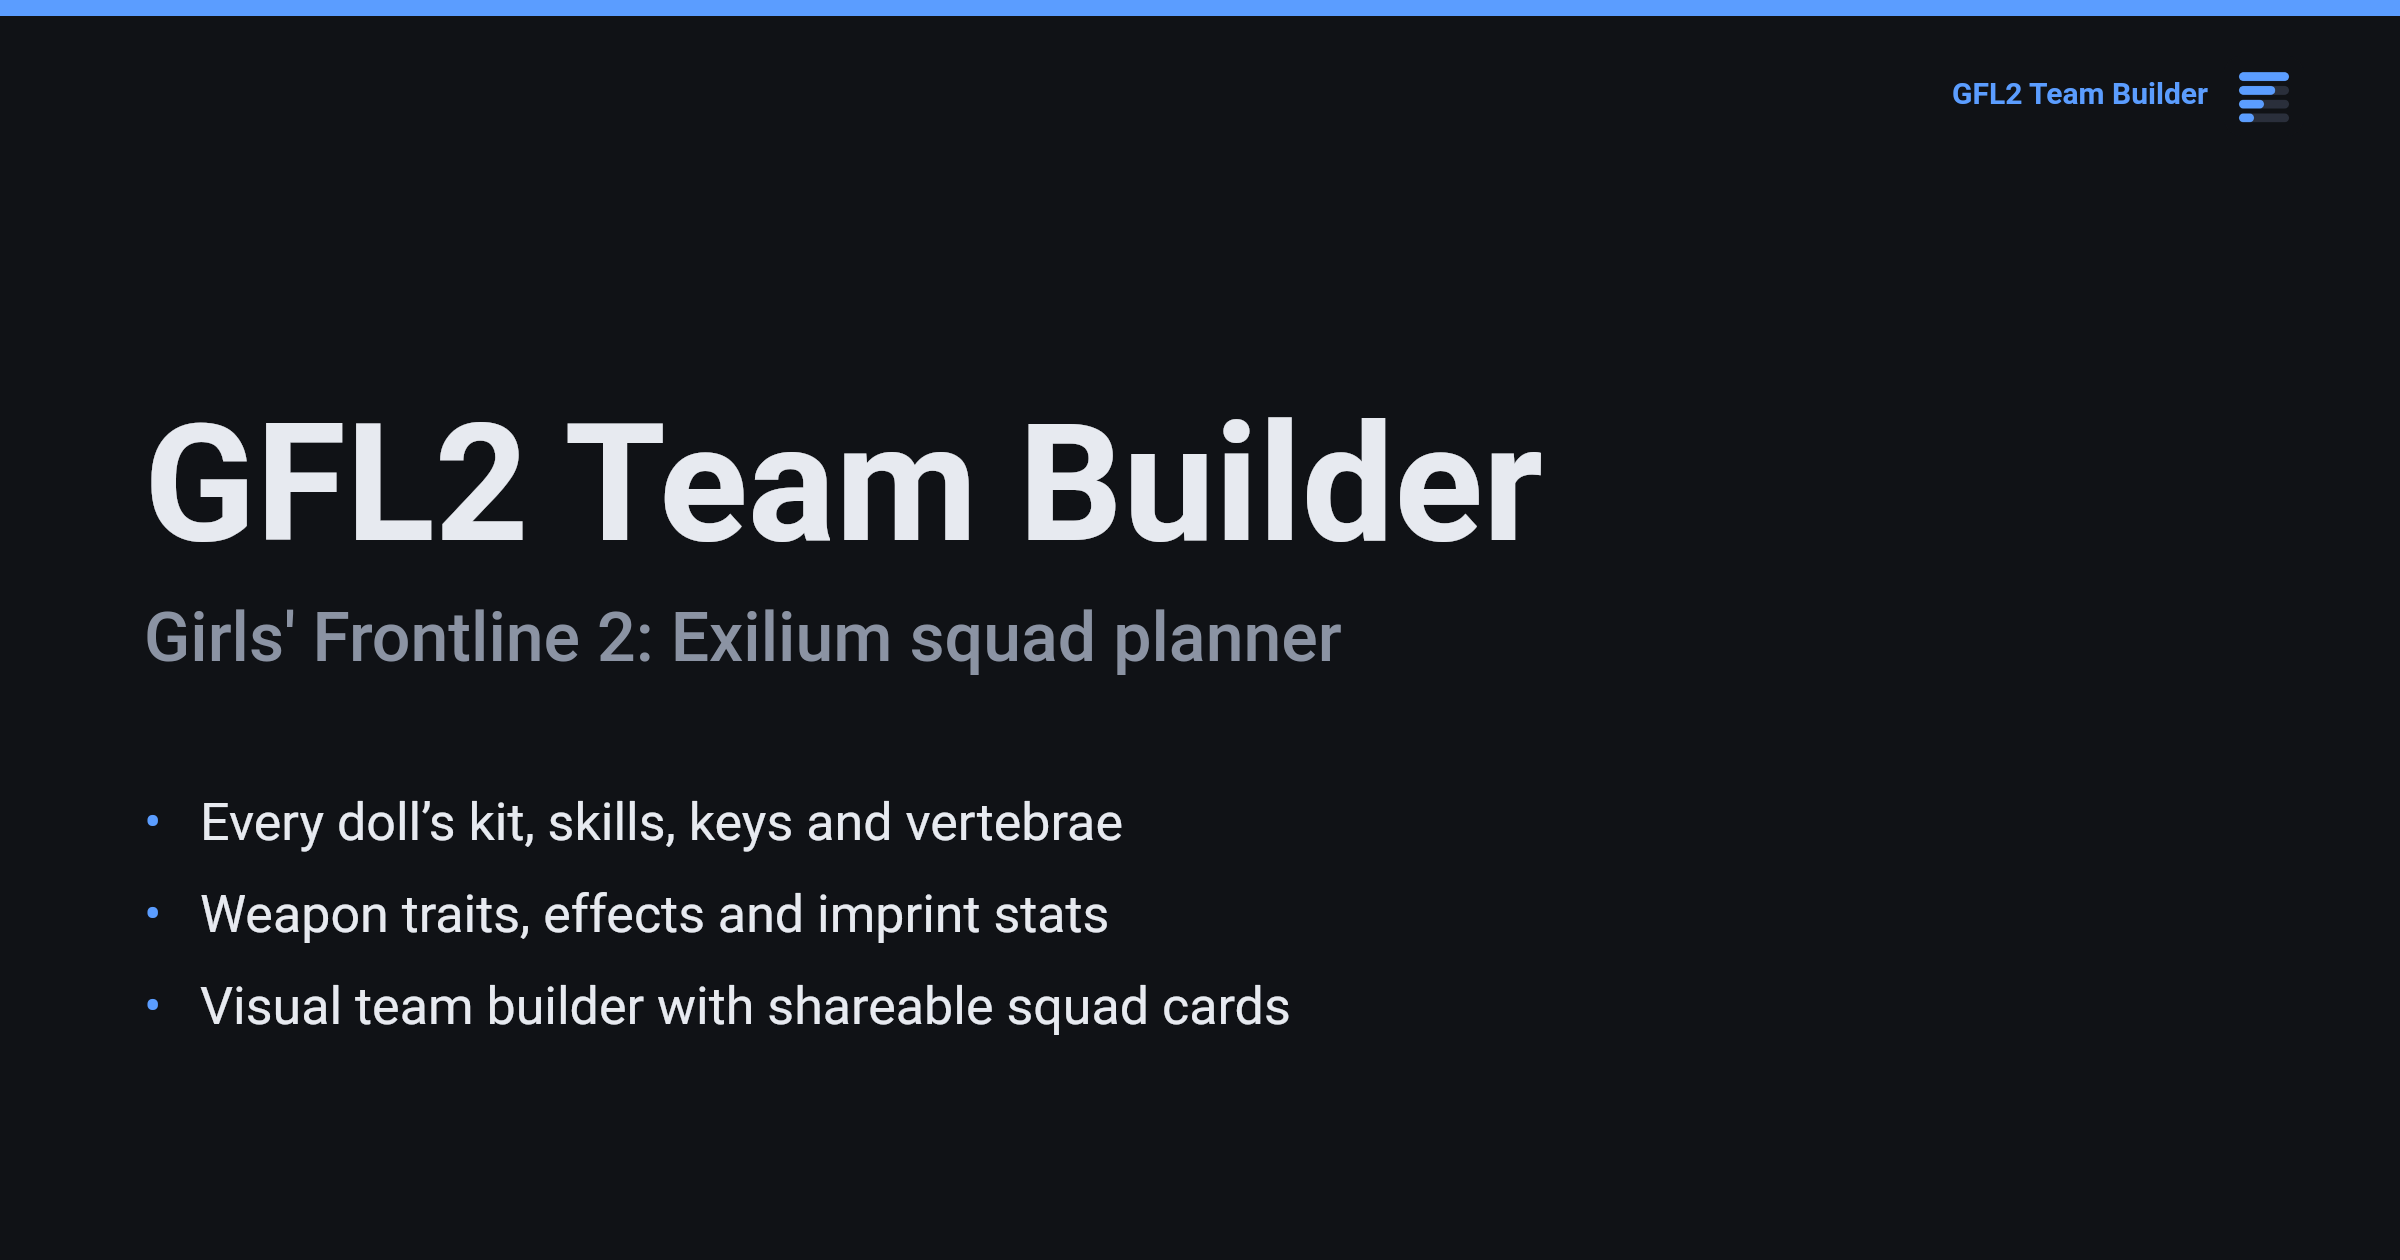
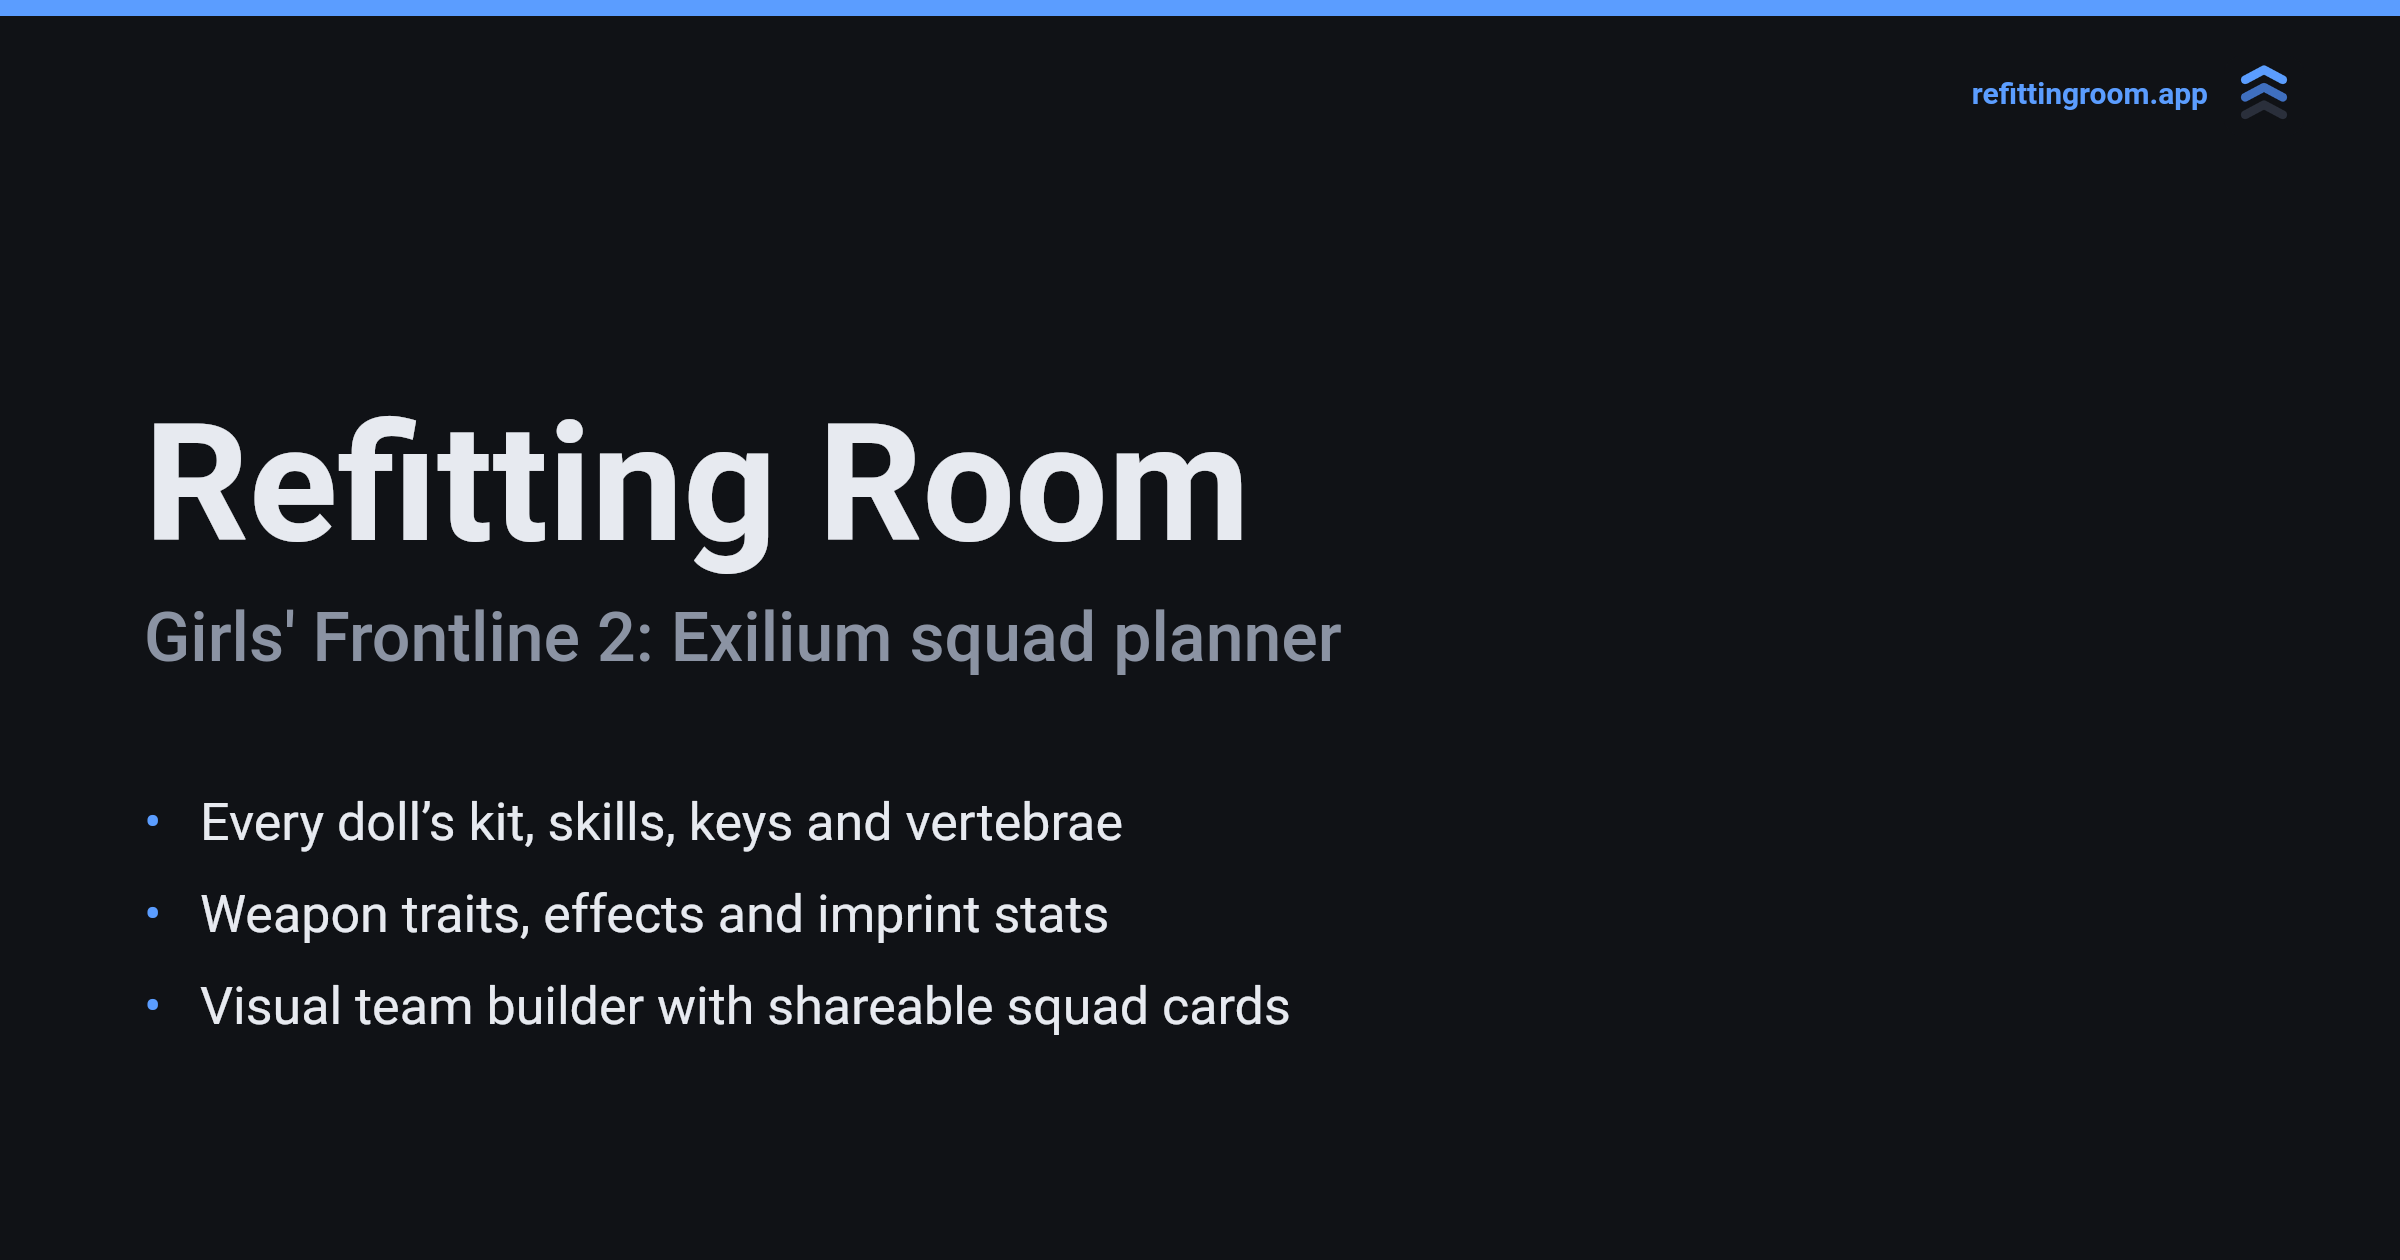
Chevron brand mark for Refitting Room
The site gets its own logo — three stacked chevrons fading dim → bright
(the V0 → V6 investment climb) in the same blue-on-black language as
before — replacing the nikkesim bars everywhere Refitting Room brands
itself: favicon.svg, site-icon.png (new: nav, fallback/touch icons, card
previews), the server card mark (assets/site-icon.png via node/icon.ts),
and a regenerated og.png. RENDERER_VERSION → 5 since every card draws
the mark. The nikkesim bars remain only where they mean nikkesim: its
Dev-page callout and footer tile.

Changed region(s): [[0.0625, 0.3095, 0.6562, 0.4643], [0.8125, 0.0619, 0.9688, 0.0929]]

diff --git a/src/infographics/core/theme.ts b/src/infographics/core/theme.ts
@@ -85,10 +85,10 @@ const MARK_BASELINE = 24; // wordmark baseline, from the icon's top edge
  * parameter on purpose: no renderer can accidentally ship an unmarked (or
  * mis-marked) image — the brand string is owned here and nowhere else.
  *
- * `icon` is the shared nikkesim.app mark (node/icon.ts loads it; the browser
- * previews use the same PNG from web/public/). It is OPTIONAL: a host with no
- * icon loaded thins the mark to its wordmark rather than dropping it, so a
- * missing asset can never produce an unmarked image.
+ * `icon` is Refitting Room's chevron mark (node/icon.ts loads it; the
+ * browser previews use the same PNG from web/public/site-icon.png). It is
+ * OPTIONAL: a host with no icon loaded thins the mark to its wordmark rather
+ * than dropping it, so a missing asset can never produce an unmarked image.
  *
  * Returns the mark's LEFT edge so a caller can clamp a title that would
  * otherwise run underneath it.

diff --git a/web/index.html b/web/index.html
@@ -3,11 +3,11 @@
   <head>
     <meta charset="UTF-8" />
     <meta name="viewport" content="width=device-width, initial-scale=1.0" />
-    <!-- Shared nikkesim.app brand mark: the SVG is the primary favicon, the
+    <!-- Refitting Room's chevron mark: the SVG is the primary favicon, the
          PNG is the fallback + the mark drawn on share cards and in the nav. -->
     <link rel="icon" type="image/svg+xml" href="/favicon.svg" />
-    <link rel="alternate icon" type="image/png" href="/nikkesim-icon.png" />
-    <link rel="apple-touch-icon" href="/nikkesim-icon.png" />
+    <link rel="alternate icon" type="image/png" href="/site-icon.png" />
+    <link rel="apple-touch-icon" href="/site-icon.png" />
     <title>Refitting Room — Girls' Frontline 2: Exilium Squad Planner</title>
     <meta
       name="description"

diff --git a/src/infographics/node/icon.ts b/src/infographics/node/icon.ts
@@ -1,5 +1,5 @@
 /**
- * The shared nikkesim.app site icon drawn beside every card's wordmark
+ * Refitting Room's chevron site icon, drawn beside every card's wordmark
  * (core/theme.ts drawBrandMark). Loaded ONCE, lazily, and cached for the
  * process; the asset ships beside the fonts under assets/ and is copied into
  * dist-server by `npm run build:server`.
@@ -19,7 +19,7 @@ import sharp from 'sharp';
 
 const ICON_PATH = path.join(
   path.dirname(fileURLToPath(import.meta.url)),
-  '../assets/nikkesim-icon.png'
+  '../assets/site-icon.png'
 );
 
 const ICON_PX = 128; // decoded edge length (drawn down to the 40px mark)

diff --git a/src/infographics/cacheKey.ts b/src/infographics/cacheKey.ts
@@ -21,7 +21,9 @@ import { createHash } from 'node:crypto';
 //    expansion-key line outright when there isn't one.
 // 4 also covers the recommendation card's INTRODUCTION — a new kind mints
 //    fresh hashes, so adding it needed no bump.
-export const RENDERER_VERSION = 4;
+// 5: brand-mark icon switches from the shared nikkesim bars to Refitting
+//    Room's own chevron mark (every card draws it, so every card changed).
+export const RENDERER_VERSION = 5;
 
 export type RenderKind = 'build' | 'team' | 'rec';
 

diff --git a/web/src/components/TeamCardPreview.tsx b/web/src/components/TeamCardPreview.tsx
@@ -290,7 +290,7 @@ export function TeamCardPreview({ slots }: { slots: TeamCardSlotData[] }) {
               <span className="team-card-brand">{CARD_WORDMARK}</span>
               <img
                 className="card-mark-icon"
-                src="/nikkesim-icon.png"
+                src="/site-icon.png"
                 alt=""
                 crossOrigin="anonymous"
               />

diff --git a/web/src/components/RecCardPreview.tsx b/web/src/components/RecCardPreview.tsx
@@ -189,7 +189,7 @@ export function RecCardPreview({ data }: { data: RecCardPreviewData }) {
               <span className="rec-card-brand">{CARD_WORDMARK}</span>
               <img
                 className="card-mark-icon"
-                src="/nikkesim-icon.png"
+                src="/site-icon.png"
                 alt=""
                 crossOrigin="anonymous"
               />

diff --git a/web/src/components/BuildCardPreview.tsx b/web/src/components/BuildCardPreview.tsx
@@ -100,7 +100,7 @@ export function BuildCardPreview({ data }: { data: BuildCardPreviewData }) {
             <span className="build-card-brand">{CARD_WORDMARK}</span>
             <img
               className="card-mark-icon"
-              src="/nikkesim-icon.png"
+              src="/site-icon.png"
               alt=""
               crossOrigin="anonymous"
             />

diff --git a/web/src/SiteChrome.tsx b/web/src/SiteChrome.tsx
@@ -174,7 +174,7 @@ export function SiteNav({ current }: { current: Route }) {
           >
             <img
               className="site-nav-logo"
-              src="/nikkesim-icon.png"
+              src="/site-icon.png"
               alt=""
               width={22}
               height={22}
